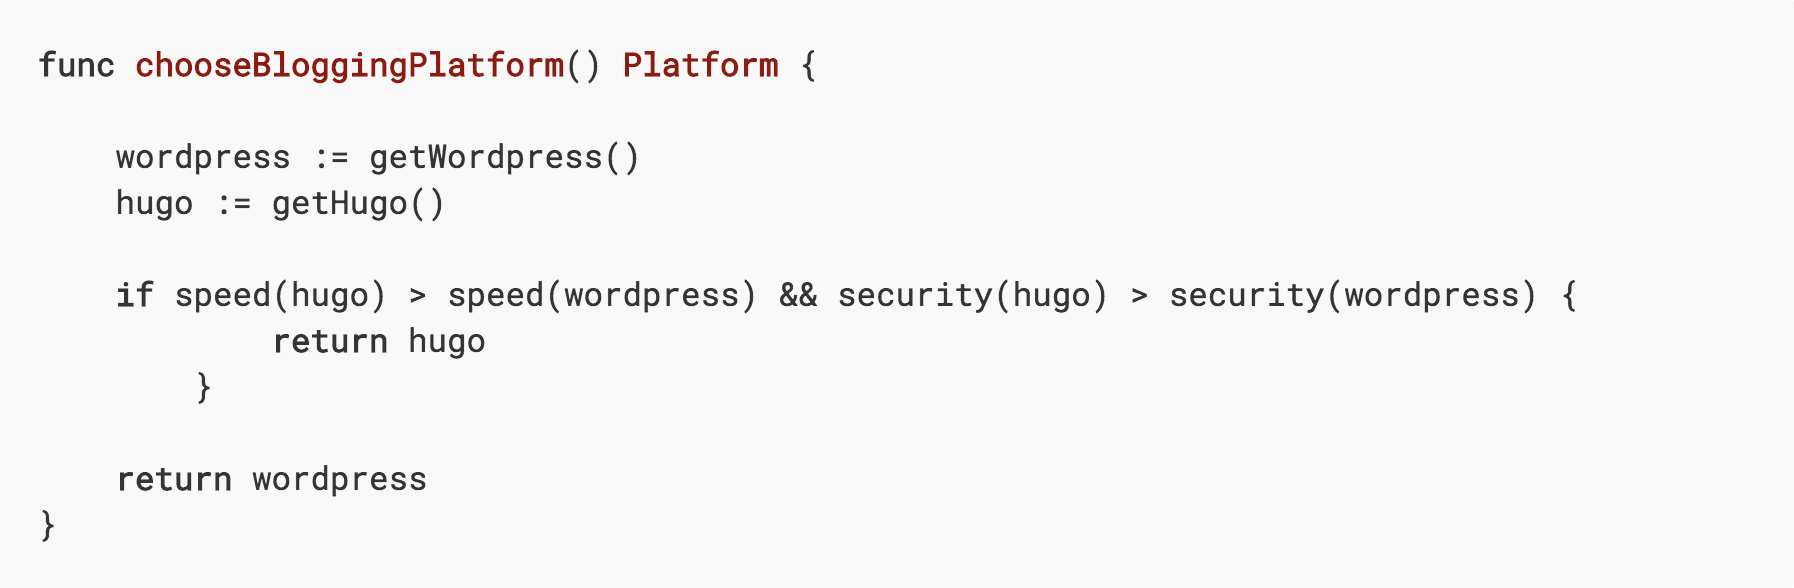
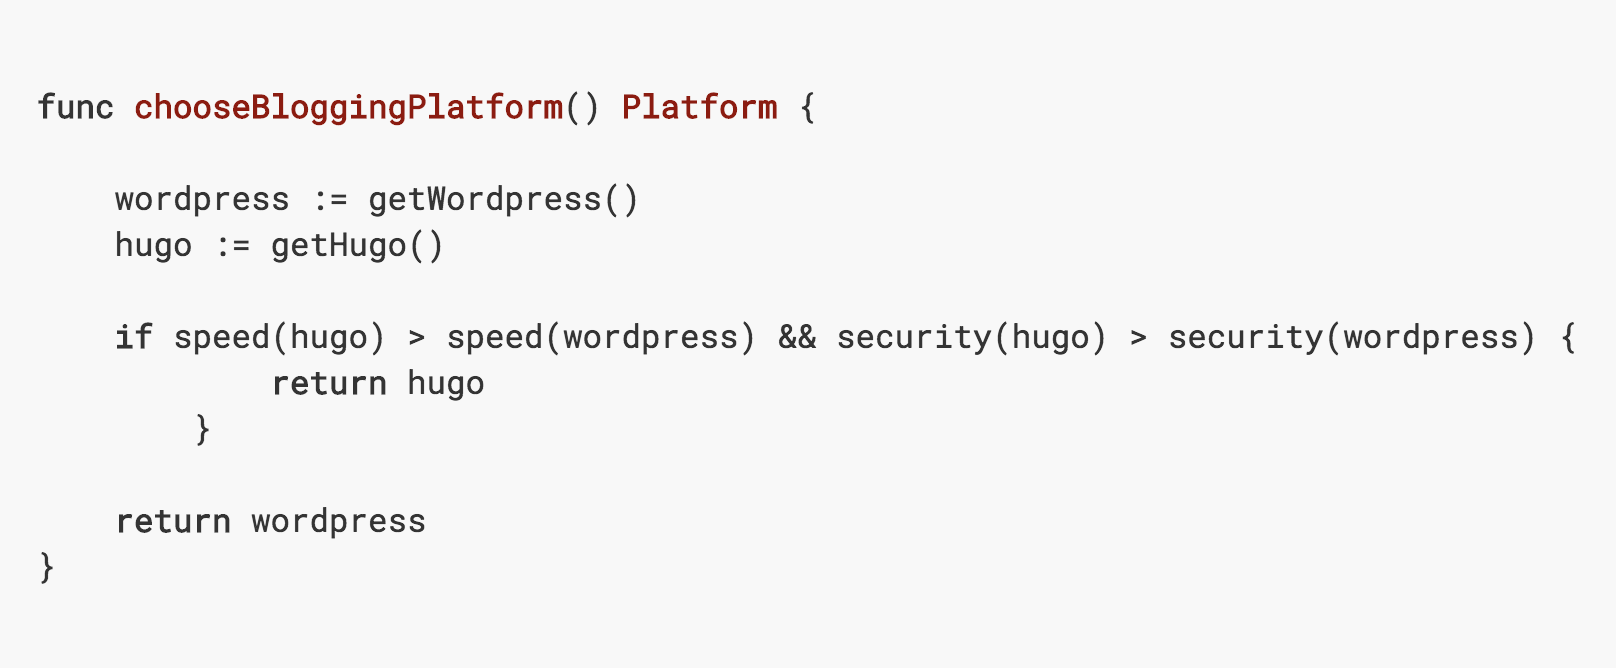
Update choosing a static site generator article

diff --git a/content/post/choosing-a-static-site-generator.md b/content/post/choosing-a-static-site-generator.md
@@ -6,7 +6,7 @@ draft = false
 # Tags and categories
 # For example, use `tags = []` for no tags, or the form `tags = ["A Tag", "Another Tag"]` for one or more tags.
 tags = ["hugo","netlify", "wordpress"]
-summary = "It is May 2018 and I have finally decided to get serious about building a building some tutorials, sharing what I already know and learning new things. So of course one of the first things I need to do is decide on a blogging platform to use."
+summary = "Wordpress powers around 25% of the world's websites and has a rich ecosystem of themes, plugins, community support and hosting options. It is often my go-to recommendation when helping friends who want to deploy a website and I have built several Wordpress sites for clients. But, it's 2018 and I want to build my site with a static site generator."
 categories = []
 
 # Featured image
@@ -29,10 +29,23 @@ image = "Choosing-A-Blogging-Platform.png"
 #}
 #```
 +++
+Wordpress powers around 25% of the world's websites and has a rich ecosystem of themes, plugins, community support and hosting options. It is often my go-to recommendation when helping friends who want to deploy a website and I have built several Wordpress sites for clients. But, it's 2018 and I want to build my site with a static site generator.
 
-It is May 2018 and I have finally decided to get serious about building an building a blog, sharing what I already know and learning new things. So of course one of the first things I need to do is decide on a blogging platform to use.
+```golang
 
-Even though I have built several Wordpress sites for clients and I think Wordpress is a great tool for a lot of needs, I am also evaluating static site generators.
+func chooseBloggingPlatform() Platform {
+
+    wordpress := getWordpress()
+    hugo := getHugo()
+
+    if speed(hugo) > speed(wordpress) && security(hugo) > security(wordpress) {
+            return hugo
+        }
+
+    return wordpress
+}
+
+```
 
 ### Wordpress vs Static Site Generators
 
